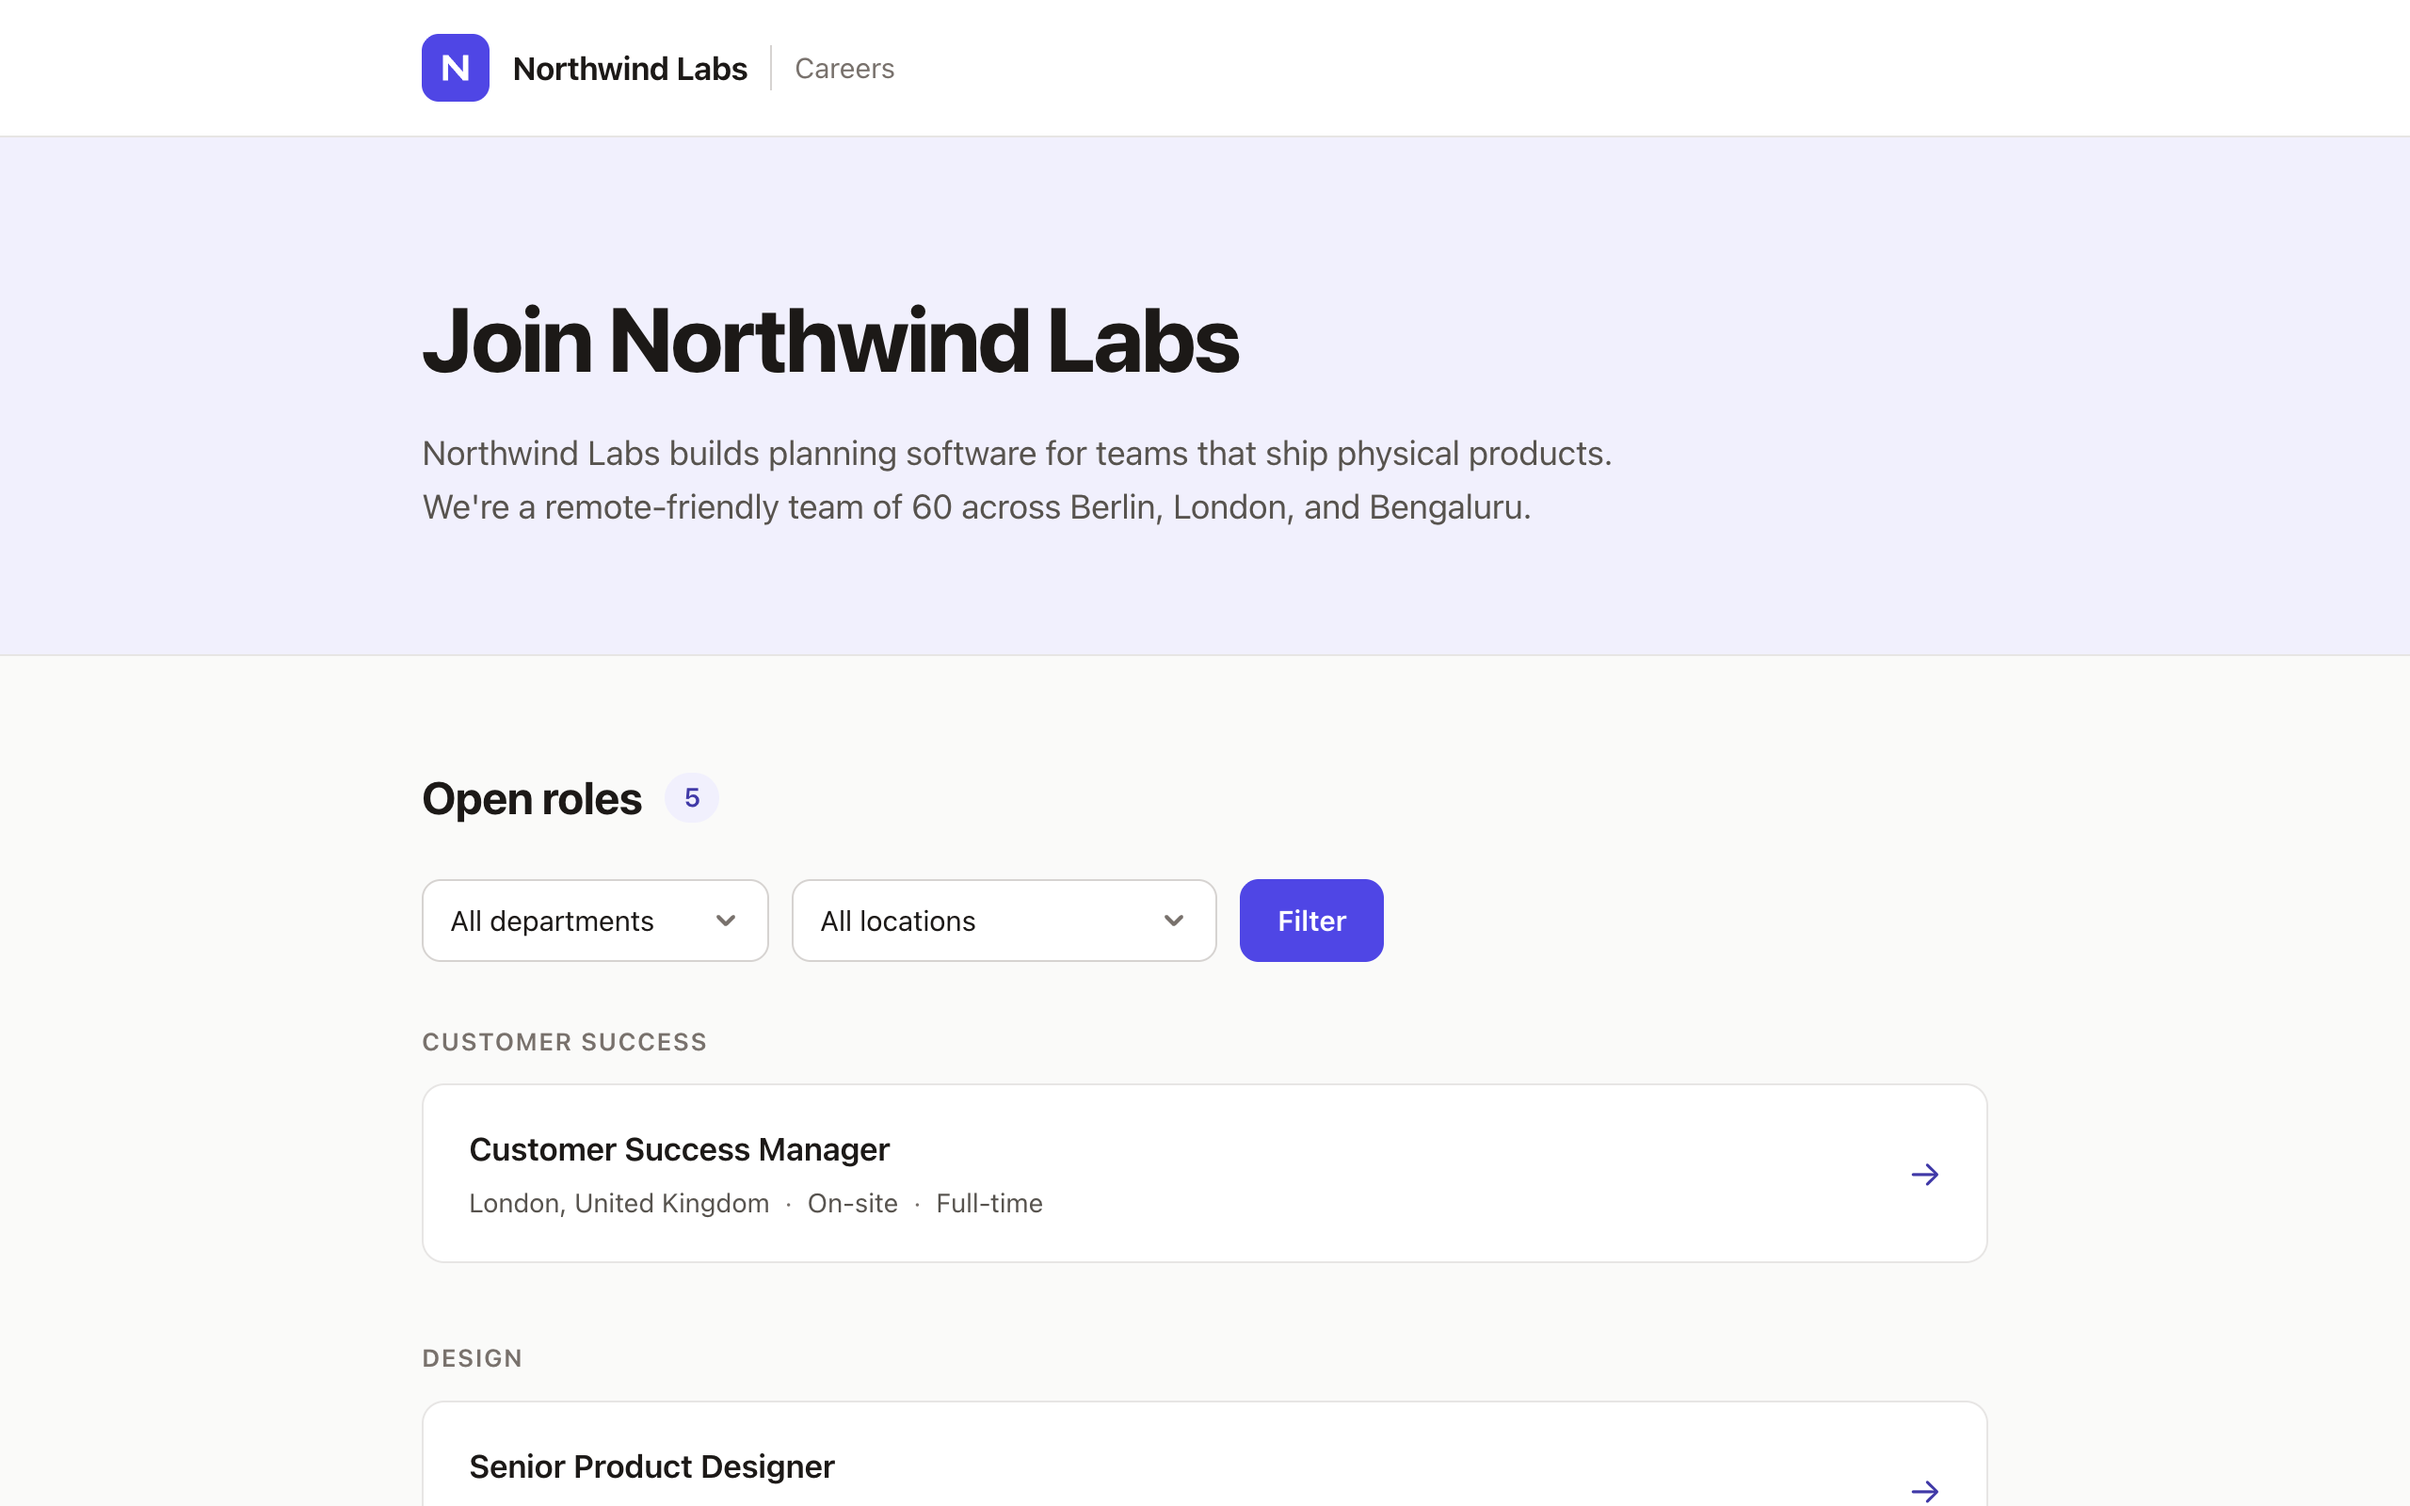
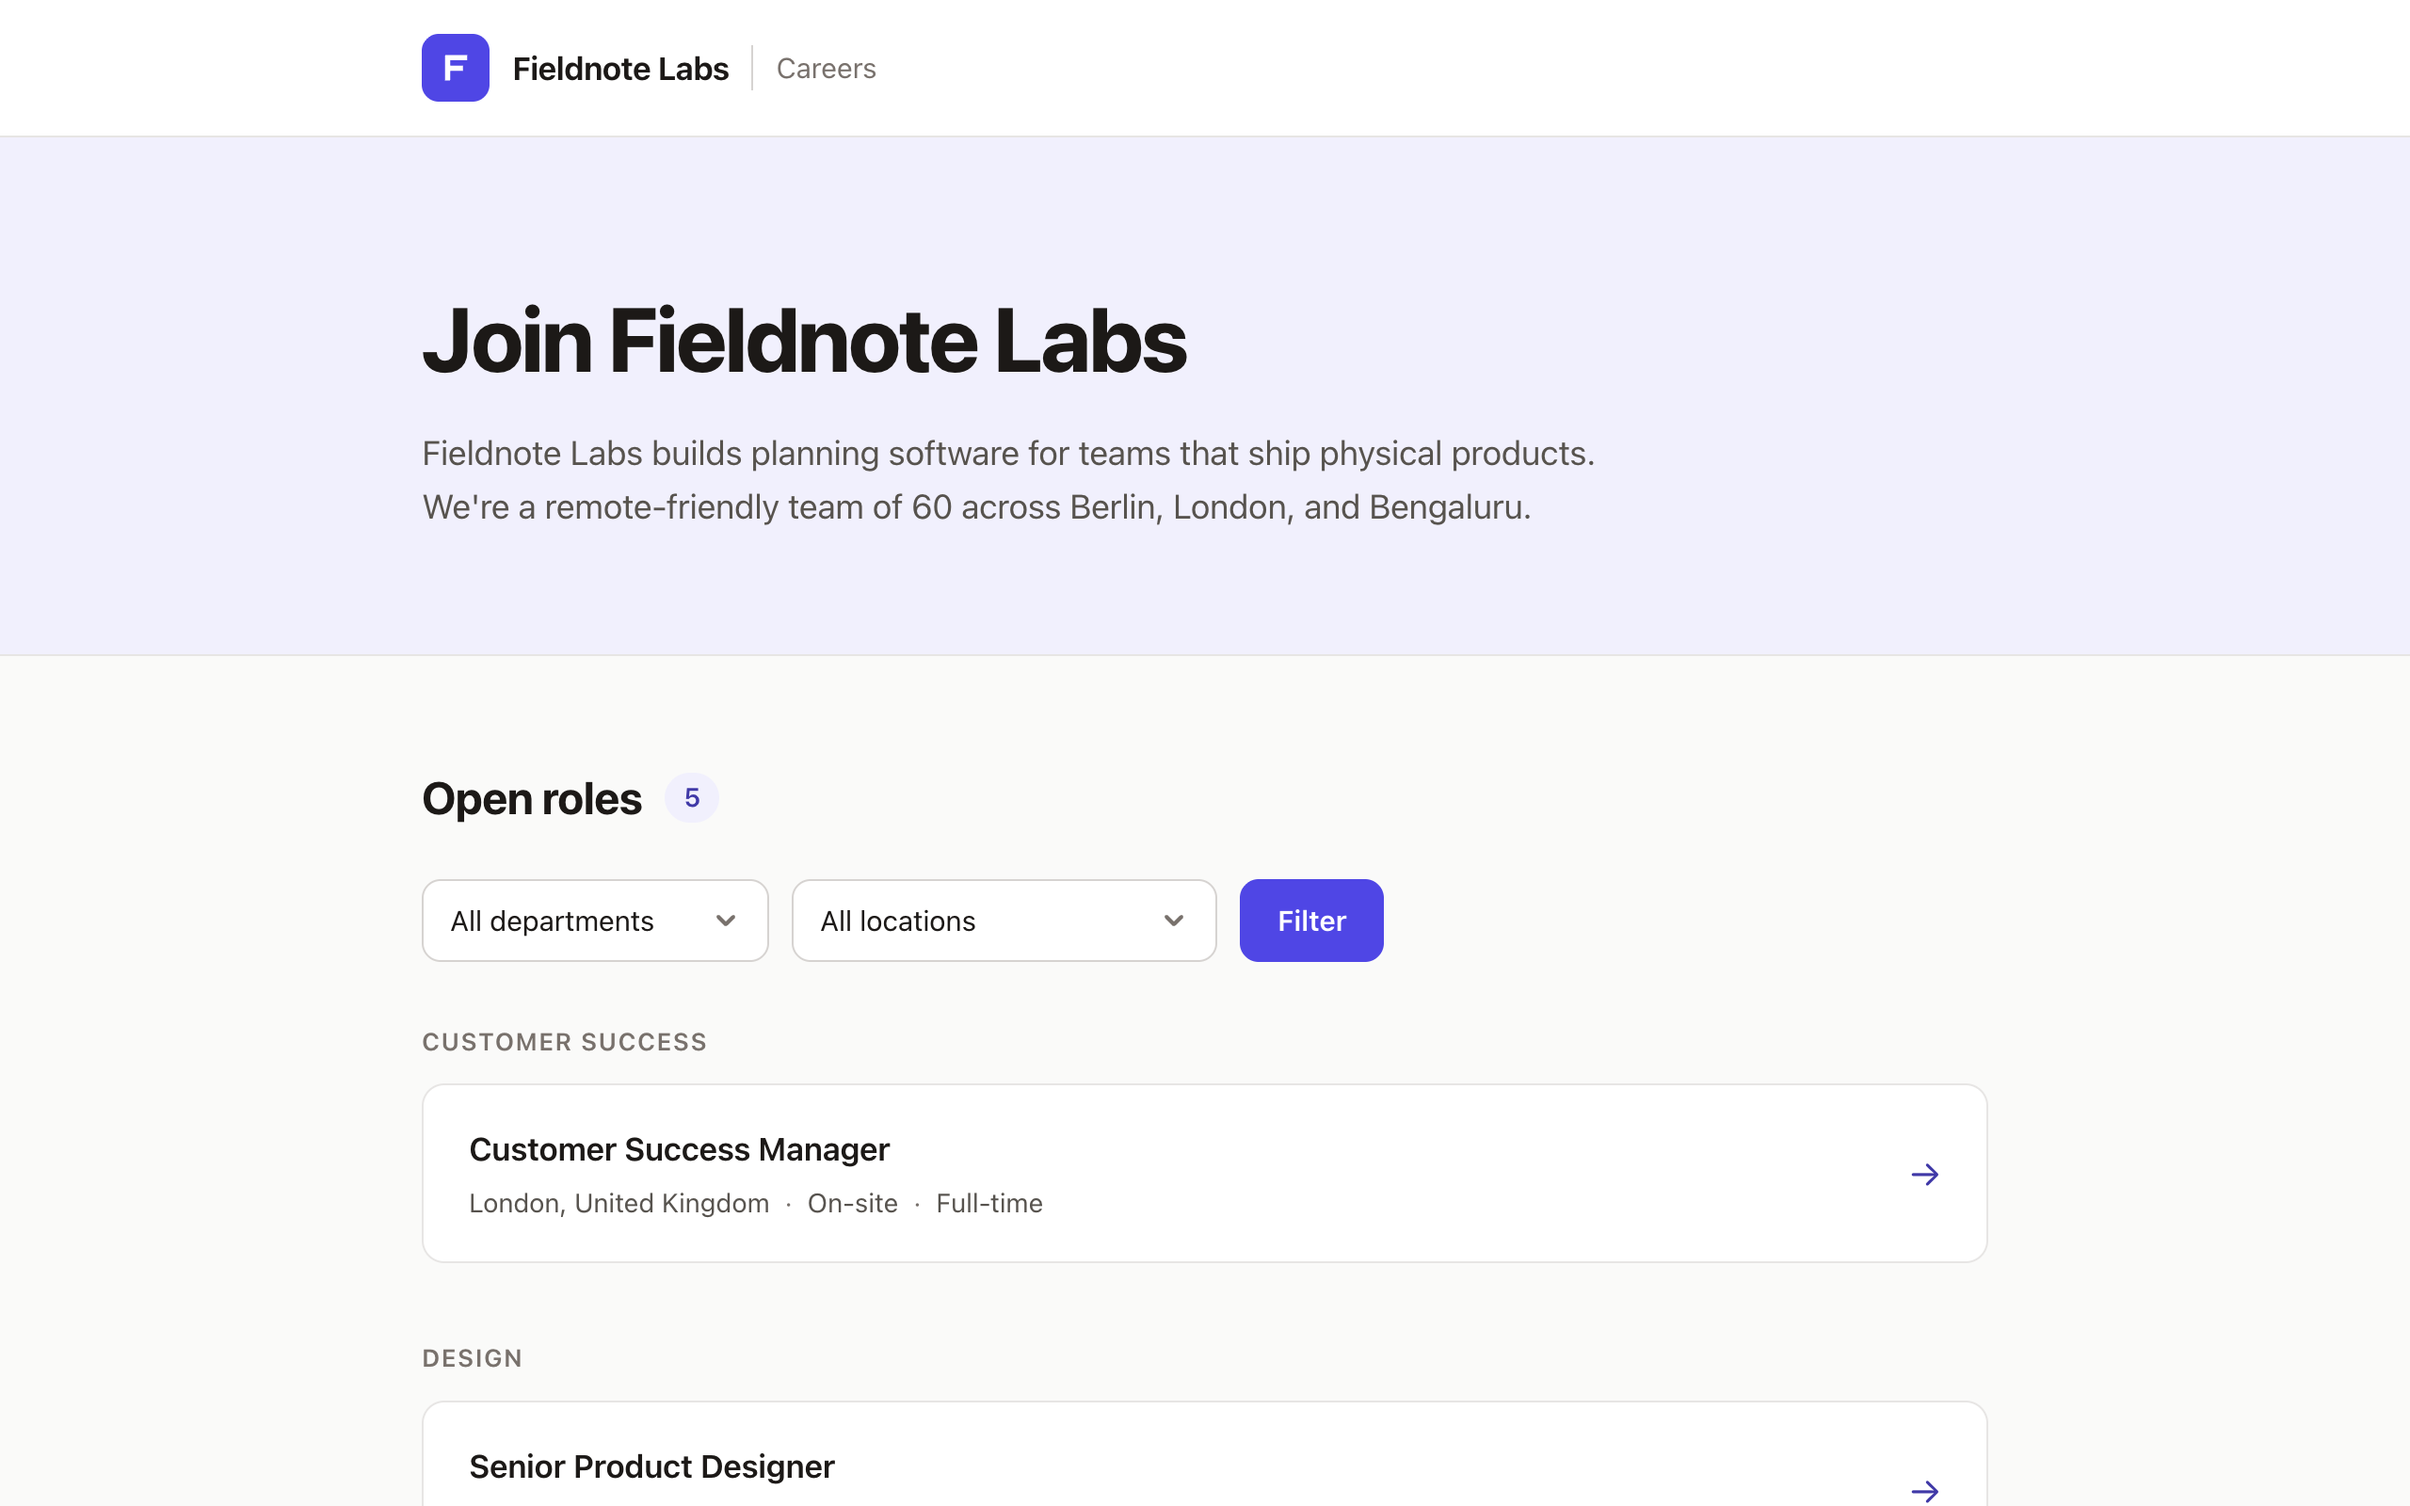
Retake the app screenshots for the dashboard redesign
The app is now drawn on a grid with square corners, so every
screenshot of it is taken again, from freshly seeded sample data with
the demo company's new name, Fieldnote Labs. The careers page's design
is unchanged, but its shots are retaken too, since they show the name.

- Landing page: the applications list, match, comments, form, stage
  email and its preview, the code editor, and the careers page. og.png
  is redrawn from the new match shot.
- Blog posts: the careers page post's Design tab, editor, and careers
  page shots, and the MCP post's Emploist shots. Both covers are
  redrawn with square windows, like the site's.
- screenshots.mjs: selectors and crops for the new layout. Crops leave
  out the app's own borders, so the site's frame doesn't double them.
  The hero is taken at 1280 wide and the form at 720, so their text
  isn't too small, and the AI assistants page in one tall window, so
  the sidebar runs all the way down. ONLY=covers redraws just the
  covers. The docs shots' dialogs are cropped to the dialog, and their
  settings to the whole group, switch included.
- The hero's phone crop follows the list's new position, and the form
  shot is shown up to 36rem wide.
- The MCP post calls the page by its new name, AI assistants, in every
  language.
- The app's launch config starts it with Emploist's real MCP address,
  for the MCP post's shots.
- README: ONLY=covers, and why the seed's applicants should stay as
  they are.

Changed region(s): [[0.25, 0.1875, 0.5312, 0.25], [0.1875, 0.2812, 0.6562, 0.3125], [0.1875, 0.0312, 0.375, 0.0625]]

diff --git a/README.md b/README.md
@@ -213,7 +213,8 @@ locally with its sample data. When the app's interface changes, take them again:
    It signs in as `alex@example.com` and asks for the sign-in code, which the
    app prints in its server log. The session is saved in `.auth/` (ignored by
    Git) so later runs skip this until it expires. To take only some shots, list
-   them: `ONLY=match,comments node scripts/screenshots.mjs`.
+   them: `ONLY=match,comments node scripts/screenshots.mjs`. `ONLY=covers`
+   only redraws the two blog posts' covers from their saved shots.
 
 Each shot is taken at 2x in the app's light theme, except `careers-code`, which
 is taken in the dark theme for the dark "Design in code" section. The site
@@ -231,7 +232,7 @@ and the reply was padded like the MCP post's (below).
 
 The "How to manage hiring from Claude with MCP" post's Emploist screenshots
 and cover come from the script too (`ONLY=mcp-post`). Start the app with
-Emploist's real MCP address, so its MCP page shows it:
+Emploist's real MCP address, so its AI assistants page shows it:
 
 ```bash
 RATE_LIMIT_MAX=5000 MCP_URL=https://mcp.emploist.com npm run dev
@@ -243,7 +244,11 @@ claude.ai screenshots (`claude-*.png`) were taken on claude.ai, connected to
 the app's sample data through a temporary public tunnel, then trimmed to
 their content with 48 pixels (24 at 1x) of their own background around it, so
 the post's rounded frames don't cut into them. The cover uses
-`claude-hiring-stats.png`, so keep it when retaking the shots.
+`claude-hiring-stats.png`, so keep it when retaking the shots. Claude's
+answers in them describe the sample data just as `npm run db:seed` makes it
+(Diego Varga's and Sara Nair's answers and comments, for example), so keep
+the seed's applicants as they are, or the post and its Emploist shots will
+disagree.
 
 ## Keeping facts in sync
 
